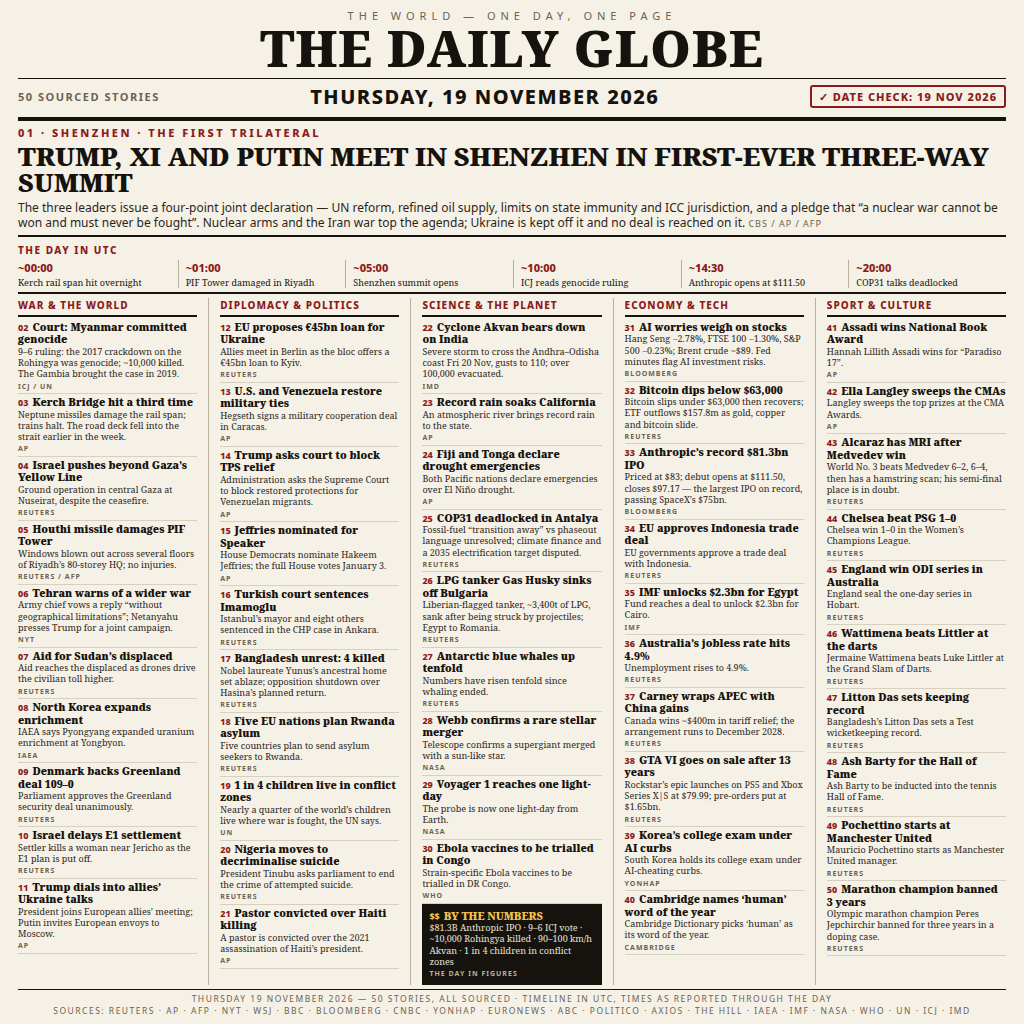
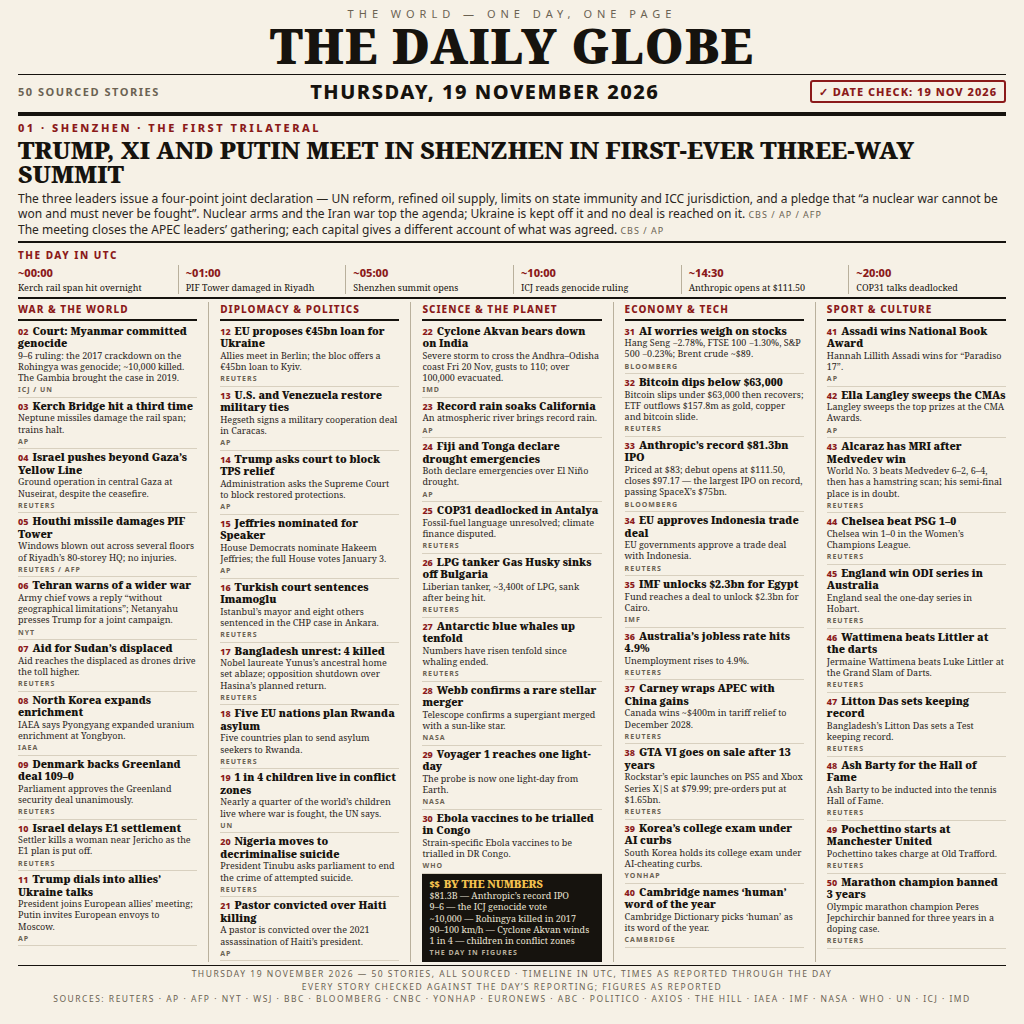
Front page v2: By the Numbers figures, verification note, tighter fit

diff --git a/src/frontpage.html b/src/frontpage.html
@@ -9,17 +9,17 @@
     width: 1024px; height: 1024px;
     background: #f6f1e6; color: #16130e;
     font-family: 'Noto Serif', Georgia, serif;
-    padding: 8px 18px 6px;
+    padding: 6px 18px 4px;
   }
   .masthead { text-align: center; border-bottom: 4px solid #16130e; padding-bottom: 7px; }
   .masthead .tagline {
     font-family: 'Noto Sans', sans-serif; font-size: 11px; letter-spacing: 5px;
     color: #6b6252; text-transform: uppercase;
   }
-  .masthead h1 { font-size: 50px; line-height: 0.95; font-weight: 900; letter-spacing: 1px; margin: 2px 0 5px; }
+  .masthead h1 { font-size: 48px; line-height: 0.95; font-weight: 900; letter-spacing: 1px; margin: 2px 0 5px; }
   .dateline {
     display: flex; align-items: center; gap: 12px;
-    border-top: 1px solid #16130e; padding-top: 4px;
+    border-top: 1px solid #16130e; padding-top: 3px;
   }
   .dateline .date {
     font-family: 'Noto Sans', sans-serif; font-size: 20px; font-weight: 800;
@@ -40,11 +40,11 @@
     font-family: 'Noto Sans', sans-serif; font-size: 11px; font-weight: 800;
     letter-spacing: 2.5px; color: #8b1a1a; text-transform: uppercase;
   }
-  .lead h2 { font-size: 26px; line-height: 1.02; font-weight: 900; margin: 3px 0 4px; }
+  .lead h2 { font-size: 24px; line-height: 1.02; font-weight: 900; margin: 3px 0 4px; }
   .lead .deck { font-family: 'Noto Sans', sans-serif; font-size: 12px; line-height: 1.3; color: #2b261d; }
   .lead .deck .src { font-size: 9px; letter-spacing: 1px; color: #6b6252; }
   .timeline {
-    margin-top: 3px; padding: 3px 0 4px; border-bottom: 2px solid #16130e;
+    margin-top: 3px; padding: 2px 0 3px; border-bottom: 2px solid #16130e;
   }
   .timeline .tlabel {
     display: block; font-family: 'Noto Sans', sans-serif; font-size: 10px; font-weight: 800;
@@ -58,7 +58,7 @@
     font-weight: 800; color: #8b1a1a; margin-bottom: 2px;
   }
   .timeline .e { display: block; font-size: 9px; line-height: 1.25; }
-  .grid { display: flex; gap: 11px; margin-top: 4px; }
+  .grid { display: flex; gap: 11px; margin-top: 3px; }
   .col { flex: 1; min-width: 0; }
   .col + .col { border-left: 1px solid #b9b09c; padding-left: 11px; }
   .chead {
@@ -77,13 +77,13 @@
     font-family: 'Noto Sans', sans-serif; font-size: 7px; font-weight: 700;
     letter-spacing: 1px; color: #6b6252;
   }
-  .item.numbers { background: #16130e; color: #f6f1e6; padding: 6px 7px; border-bottom: none; }
+  .item.numbers { background: #16130e; color: #f6f1e6; padding: 4px 7px; border-bottom: none; }
   .item.numbers h4 { color: #f2c14e; }
   .item.numbers p { color: #e8e2d2; }
   .item.numbers .src { color: #b9b09c; }
   .item.numbers .num { color: #f2c14e; }
   .footer {
-    margin-top: 4px; border-top: 1px solid #16130e; padding-top: 3px;
+    margin-top: 3px; border-top: 1px solid #16130e; padding-top: 2px;
     text-align: center; font-family: 'Noto Sans', sans-serif;
     font-size: 8.5px; letter-spacing: 1.5px; color: #6b6252; text-transform: uppercase;
     line-height: 1.5;
@@ -107,6 +107,7 @@
     <div class="kicker">01 &middot; SHENZHEN &middot; THE FIRST TRILATERAL</div>
     <h2>TRUMP, XI AND PUTIN MEET IN SHENZHEN IN FIRST-EVER THREE-WAY SUMMIT</h2>
     <p class="deck">The three leaders issue a four-point joint declaration &mdash; UN reform, refined oil supply, limits on state immunity and ICC jurisdiction, and a pledge that &ldquo;a nuclear war cannot be won and must never be fought&rdquo;. Nuclear arms and the Iran war top the agenda; Ukraine is kept off it and no deal is reached on it. <span class="src">CBS / AP / AFP</span></p>
+    <p class="deck">The meeting closes the APEC leaders&rsquo; gathering; each capital gives a different account of what was agreed. <span class="src">CBS / AP</span></p>
   </section>
 
   <div class="timeline">
@@ -115,10 +116,11 @@
   </div>
 
   <div class="grid">
-    <div class="col"><div class="chead">War &amp; the World</div><div class="item"><span class="num">02</span><h4>Court: Myanmar committed genocide</h4><p>9&ndash;6 ruling: the 2017 crackdown on the Rohingya was genocide; ~10,000 killed. The Gambia brought the case in 2019.</p><span class="src">ICJ / UN</span></div><div class="item"><span class="num">03</span><h4>Kerch Bridge hit a third time</h4><p>Neptune missiles damage the rail span; trains halt. The road deck fell into the strait earlier in the week.</p><span class="src">AP</span></div><div class="item"><span class="num">04</span><h4>Israel pushes beyond Gaza&rsquo;s Yellow Line</h4><p>Ground operation in central Gaza at Nuseirat, despite the ceasefire.</p><span class="src">REUTERS</span></div><div class="item"><span class="num">05</span><h4>Houthi missile damages PIF Tower</h4><p>Windows blown out across several floors of Riyadh&rsquo;s 80-storey HQ; no injuries.</p><span class="src">REUTERS / AFP</span></div><div class="item"><span class="num">06</span><h4>Tehran warns of a wider war</h4><p>Army chief vows a reply &ldquo;without geographical limitations&rdquo;; Netanyahu presses Trump for a joint campaign.</p><span class="src">NYT</span></div><div class="item"><span class="num">07</span><h4>Aid for Sudan&rsquo;s displaced</h4><p>Aid reaches the displaced as drones drive the civilian toll higher.</p><span class="src">REUTERS</span></div><div class="item"><span class="num">08</span><h4>North Korea expands enrichment</h4><p>IAEA says Pyongyang expanded uranium enrichment at Yongbyon.</p><span class="src">IAEA</span></div><div class="item"><span class="num">09</span><h4>Denmark backs Greenland deal 109&ndash;0</h4><p>Parliament approves the Greenland security deal unanimously.</p><span class="src">REUTERS</span></div><div class="item"><span class="num">10</span><h4>Israel delays E1 settlement</h4><p>Settler kills a woman near Jericho as the E1 plan is put off.</p><span class="src">REUTERS</span></div><div class="item"><span class="num">11</span><h4>Trump dials into allies&rsquo; Ukraine talks</h4><p>President joins European allies&rsquo; meeting; Putin invites European envoys to Moscow.</p><span class="src">AP</span></div></div><div class="col"><div class="chead">Diplomacy &amp; Politics</div><div class="item"><span class="num">12</span><h4>EU proposes &euro;45bn loan for Ukraine</h4><p>Allies meet in Berlin as the bloc offers a &euro;45bn loan to Kyiv.</p><span class="src">REUTERS</span></div><div class="item"><span class="num">13</span><h4>U.S. and Venezuela restore military ties</h4><p>Hegseth signs a military cooperation deal in Caracas.</p><span class="src">AP</span></div><div class="item"><span class="num">14</span><h4>Trump asks court to block TPS relief</h4><p>Administration asks the Supreme Court to block restored protections for Venezuelan migrants.</p><span class="src">AP</span></div><div class="item"><span class="num">15</span><h4>Jeffries nominated for Speaker</h4><p>House Democrats nominate Hakeem Jeffries; the full House votes January 3.</p><span class="src">AP</span></div><div class="item"><span class="num">16</span><h4>Turkish court sentences Imamoglu</h4><p>Istanbul&rsquo;s mayor and eight others sentenced in the CHP case in Ankara.</p><span class="src">REUTERS</span></div><div class="item"><span class="num">17</span><h4>Bangladesh unrest: 4 killed</h4><p>Nobel laureate Yunus&rsquo;s ancestral home set ablaze; opposition shutdown over Hasina&rsquo;s planned return.</p><span class="src">REUTERS</span></div><div class="item"><span class="num">18</span><h4>Five EU nations plan Rwanda asylum</h4><p>Five countries plan to send asylum seekers to Rwanda.</p><span class="src">REUTERS</span></div><div class="item"><span class="num">19</span><h4>1 in 4 children live in conflict zones</h4><p>Nearly a quarter of the world&rsquo;s children live where war is fought, the UN says.</p><span class="src">UN</span></div><div class="item"><span class="num">20</span><h4>Nigeria moves to decriminalise suicide</h4><p>President Tinubu asks parliament to end the crime of attempted suicide.</p><span class="src">REUTERS</span></div><div class="item"><span class="num">21</span><h4>Pastor convicted over Haiti killing</h4><p>A pastor is convicted over the 2021 assassination of Haiti&rsquo;s president.</p><span class="src">AP</span></div></div><div class="col"><div class="chead">Science &amp; the Planet</div><div class="item"><span class="num">22</span><h4>Cyclone Akvan bears down on India</h4><p>Severe storm to cross the Andhra&ndash;Odisha coast Fri 20 Nov, gusts to 110; over 100,000 evacuated.</p><span class="src">IMD</span></div><div class="item"><span class="num">23</span><h4>Record rain soaks California</h4><p>An atmospheric river brings record rain to the state.</p><span class="src">AP</span></div><div class="item"><span class="num">24</span><h4>Fiji and Tonga declare drought emergencies</h4><p>Both Pacific nations declare emergencies over El Ni&ntilde;o drought.</p><span class="src">AP</span></div><div class="item"><span class="num">25</span><h4>COP31 deadlocked in Antalya</h4><p>Fossil-fuel &ldquo;transition away&rdquo; vs phaseout language unresolved; climate finance and a 2035 electrification target disputed.</p><span class="src">REUTERS</span></div><div class="item"><span class="num">26</span><h4>LPG tanker Gas Husky sinks off Bulgaria</h4><p>Liberian-flagged tanker, ~3,400t of LPG, sank after being struck by projectiles; Egypt to Romania.</p><span class="src">REUTERS</span></div><div class="item"><span class="num">27</span><h4>Antarctic blue whales up tenfold</h4><p>Numbers have risen tenfold since whaling ended.</p><span class="src">REUTERS</span></div><div class="item"><span class="num">28</span><h4>Webb confirms a rare stellar merger</h4><p>Telescope confirms a supergiant merged with a sun-like star.</p><span class="src">NASA</span></div><div class="item"><span class="num">29</span><h4>Voyager 1 reaches one light-day</h4><p>The probe is now one light-day from Earth.</p><span class="src">NASA</span></div><div class="item"><span class="num">30</span><h4>Ebola vaccines to be trialled in Congo</h4><p>Strain-specific Ebola vaccines to be trialled in DR Congo.</p><span class="src">WHO</span></div><div class="item numbers"><span class="num">$$</span><h4>BY THE NUMBERS</h4><p>$81.3B Anthropic IPO &middot; 9&ndash;6 ICJ vote &middot; ~10,000 Rohingya killed &middot; 90&ndash;100 km/h Akvan &middot; 1 in 4 children in conflict zones</p><span class="src">THE DAY IN FIGURES</span></div></div><div class="col"><div class="chead">Economy &amp; Tech</div><div class="item"><span class="num">31</span><h4>AI worries weigh on stocks</h4><p>Hang Seng &minus;2.78%, FTSE 100 &minus;1.30%, S&amp;P 500 &minus;0.23%; Brent crude ~$89. Fed minutes flag AI investment risks.</p><span class="src">BLOOMBERG</span></div><div class="item"><span class="num">32</span><h4>Bitcoin dips below $63,000</h4><p>Bitcoin slips under $63,000 then recovers; ETF outflows $157.8m as gold, copper and bitcoin slide.</p><span class="src">REUTERS</span></div><div class="item"><span class="num">33</span><h4>Anthropic&rsquo;s record $81.3bn IPO</h4><p>Priced at $83; debut opens at $111.50, closes $97.17 &mdash; the largest IPO on record, passing SpaceX&rsquo;s $75bn.</p><span class="src">BLOOMBERG</span></div><div class="item"><span class="num">34</span><h4>EU approves Indonesia trade deal</h4><p>EU governments approve a trade deal with Indonesia.</p><span class="src">REUTERS</span></div><div class="item"><span class="num">35</span><h4>IMF unlocks $2.3bn for Egypt</h4><p>Fund reaches a deal to unlock $2.3bn for Cairo.</p><span class="src">IMF</span></div><div class="item"><span class="num">36</span><h4>Australia&rsquo;s jobless rate hits 4.9%</h4><p>Unemployment rises to 4.9%.</p><span class="src">REUTERS</span></div><div class="item"><span class="num">37</span><h4>Carney wraps APEC with China gains</h4><p>Canada wins ~$400m in tariff relief; the arrangement runs to December 2028.</p><span class="src">REUTERS</span></div><div class="item"><span class="num">38</span><h4>GTA VI goes on sale after 13 years</h4><p>Rockstar&rsquo;s epic launches on PS5 and Xbox Series X|S at $79.99; pre-orders put at $1.65bn.</p><span class="src">REUTERS</span></div><div class="item"><span class="num">39</span><h4>Korea&rsquo;s college exam under AI curbs</h4><p>South Korea holds its college exam under AI-cheating curbs.</p><span class="src">YONHAP</span></div><div class="item"><span class="num">40</span><h4>Cambridge names &lsquo;human&rsquo; word of the year</h4><p>Cambridge Dictionary picks &lsquo;human&rsquo; as its word of the year.</p><span class="src">CAMBRIDGE</span></div></div><div class="col"><div class="chead">Sport &amp; Culture</div><div class="item"><span class="num">41</span><h4>Assadi wins National Book Award</h4><p>Hannah Lillith Assadi wins for &ldquo;Paradiso 17&rdquo;.</p><span class="src">AP</span></div><div class="item"><span class="num">42</span><h4>Ella Langley sweeps the CMAs</h4><p>Langley sweeps the top prizes at the CMA Awards.</p><span class="src">AP</span></div><div class="item"><span class="num">43</span><h4>Alcaraz has MRI after Medvedev win</h4><p>World No. 3 beats Medvedev 6&ndash;2, 6&ndash;4, then has a hamstring scan; his semi-final place is in doubt.</p><span class="src">REUTERS</span></div><div class="item"><span class="num">44</span><h4>Chelsea beat PSG 1&ndash;0</h4><p>Chelsea win 1&ndash;0 in the Women&rsquo;s Champions League.</p><span class="src">REUTERS</span></div><div class="item"><span class="num">45</span><h4>England win ODI series in Australia</h4><p>England seal the one-day series in Hobart.</p><span class="src">REUTERS</span></div><div class="item"><span class="num">46</span><h4>Wattimena beats Littler at the darts</h4><p>Jermaine Wattimena beats Luke Littler at the Grand Slam of Darts.</p><span class="src">REUTERS</span></div><div class="item"><span class="num">47</span><h4>Litton Das sets keeping record</h4><p>Bangladesh&rsquo;s Litton Das sets a Test wicketkeeping record.</p><span class="src">REUTERS</span></div><div class="item"><span class="num">48</span><h4>Ash Barty for the Hall of Fame</h4><p>Ash Barty to be inducted into the tennis Hall of Fame.</p><span class="src">REUTERS</span></div><div class="item"><span class="num">49</span><h4>Pochettino starts at Manchester United</h4><p>Mauricio Pochettino starts as Manchester United manager.</p><span class="src">REUTERS</span></div><div class="item"><span class="num">50</span><h4>Marathon champion banned 3 years</h4><p>Olympic marathon champion Peres Jepchirchir banned for three years in a doping case.</p><span class="src">REUTERS</span></div></div>
+    <div class="col"><div class="chead">War &amp; the World</div><div class="item"><span class="num">02</span><h4>Court: Myanmar committed genocide</h4><p>9&ndash;6 ruling: the 2017 crackdown on the Rohingya was genocide; ~10,000 killed. The Gambia brought the case in 2019.</p><span class="src">ICJ / UN</span></div><div class="item"><span class="num">03</span><h4>Kerch Bridge hit a third time</h4><p>Neptune missiles damage the rail span; trains halt.</p><span class="src">AP</span></div><div class="item"><span class="num">04</span><h4>Israel pushes beyond Gaza&rsquo;s Yellow Line</h4><p>Ground operation in central Gaza at Nuseirat, despite the ceasefire.</p><span class="src">REUTERS</span></div><div class="item"><span class="num">05</span><h4>Houthi missile damages PIF Tower</h4><p>Windows blown out across several floors of Riyadh&rsquo;s 80-storey HQ; no injuries.</p><span class="src">REUTERS / AFP</span></div><div class="item"><span class="num">06</span><h4>Tehran warns of a wider war</h4><p>Army chief vows a reply &ldquo;without geographical limitations&rdquo;; Netanyahu presses Trump for a joint campaign.</p><span class="src">NYT</span></div><div class="item"><span class="num">07</span><h4>Aid for Sudan&rsquo;s displaced</h4><p>Aid reaches the displaced as drones drive the toll higher.</p><span class="src">REUTERS</span></div><div class="item"><span class="num">08</span><h4>North Korea expands enrichment</h4><p>IAEA says Pyongyang expanded uranium enrichment at Yongbyon.</p><span class="src">IAEA</span></div><div class="item"><span class="num">09</span><h4>Denmark backs Greenland deal 109&ndash;0</h4><p>Parliament approves the Greenland security deal unanimously.</p><span class="src">REUTERS</span></div><div class="item"><span class="num">10</span><h4>Israel delays E1 settlement</h4><p>Settler kills a woman near Jericho as the E1 plan is put off.</p><span class="src">REUTERS</span></div><div class="item"><span class="num">11</span><h4>Trump dials into allies&rsquo; Ukraine talks</h4><p>President joins European allies&rsquo; meeting; Putin invites European envoys to Moscow.</p><span class="src">AP</span></div></div><div class="col"><div class="chead">Diplomacy &amp; Politics</div><div class="item"><span class="num">12</span><h4>EU proposes &euro;45bn loan for Ukraine</h4><p>Allies meet in Berlin; the bloc offers a &euro;45bn loan to Kyiv.</p><span class="src">REUTERS</span></div><div class="item"><span class="num">13</span><h4>U.S. and Venezuela restore military ties</h4><p>Hegseth signs a military cooperation deal in Caracas.</p><span class="src">AP</span></div><div class="item"><span class="num">14</span><h4>Trump asks court to block TPS relief</h4><p>Administration asks the Supreme Court to block restored protections.</p><span class="src">AP</span></div><div class="item"><span class="num">15</span><h4>Jeffries nominated for Speaker</h4><p>House Democrats nominate Hakeem Jeffries; the full House votes January 3.</p><span class="src">AP</span></div><div class="item"><span class="num">16</span><h4>Turkish court sentences Imamoglu</h4><p>Istanbul&rsquo;s mayor and eight others sentenced in the CHP case in Ankara.</p><span class="src">REUTERS</span></div><div class="item"><span class="num">17</span><h4>Bangladesh unrest: 4 killed</h4><p>Nobel laureate Yunus&rsquo;s ancestral home set ablaze; opposition shutdown over Hasina&rsquo;s planned return.</p><span class="src">REUTERS</span></div><div class="item"><span class="num">18</span><h4>Five EU nations plan Rwanda asylum</h4><p>Five countries plan to send asylum seekers to Rwanda.</p><span class="src">REUTERS</span></div><div class="item"><span class="num">19</span><h4>1 in 4 children live in conflict zones</h4><p>Nearly a quarter of the world&rsquo;s children live where war is fought, the UN says.</p><span class="src">UN</span></div><div class="item"><span class="num">20</span><h4>Nigeria moves to decriminalise suicide</h4><p>President Tinubu asks parliament to end the crime of attempted suicide.</p><span class="src">REUTERS</span></div><div class="item"><span class="num">21</span><h4>Pastor convicted over Haiti killing</h4><p>A pastor is convicted over the 2021 assassination of Haiti&rsquo;s president.</p><span class="src">AP</span></div></div><div class="col"><div class="chead">Science &amp; the Planet</div><div class="item"><span class="num">22</span><h4>Cyclone Akvan bears down on India</h4><p>Severe storm to cross the Andhra&ndash;Odisha coast Fri 20 Nov, gusts to 110; over 100,000 evacuated.</p><span class="src">IMD</span></div><div class="item"><span class="num">23</span><h4>Record rain soaks California</h4><p>An atmospheric river brings record rain.</p><span class="src">AP</span></div><div class="item"><span class="num">24</span><h4>Fiji and Tonga declare drought emergencies</h4><p>Both declare emergencies over El Ni&ntilde;o drought.</p><span class="src">AP</span></div><div class="item"><span class="num">25</span><h4>COP31 deadlocked in Antalya</h4><p>Fossil-fuel language unresolved; climate finance disputed.</p><span class="src">REUTERS</span></div><div class="item"><span class="num">26</span><h4>LPG tanker Gas Husky sinks off Bulgaria</h4><p>Liberian tanker, ~3,400t of LPG, sank after being hit.</p><span class="src">REUTERS</span></div><div class="item"><span class="num">27</span><h4>Antarctic blue whales up tenfold</h4><p>Numbers have risen tenfold since whaling ended.</p><span class="src">REUTERS</span></div><div class="item"><span class="num">28</span><h4>Webb confirms a rare stellar merger</h4><p>Telescope confirms a supergiant merged with a sun-like star.</p><span class="src">NASA</span></div><div class="item"><span class="num">29</span><h4>Voyager 1 reaches one light-day</h4><p>The probe is now one light-day from Earth.</p><span class="src">NASA</span></div><div class="item"><span class="num">30</span><h4>Ebola vaccines to be trialled in Congo</h4><p>Strain-specific Ebola vaccines to be trialled in DR Congo.</p><span class="src">WHO</span></div><div class="item numbers"><span class="num">$$</span><h4>BY THE NUMBERS</h4><p>$81.3B &mdash; Anthropic&rsquo;s record IPO</p><p>9&ndash;6 &mdash; the ICJ genocide vote</p><p>~10,000 &mdash; Rohingya killed in 2017</p><p>90&ndash;100 km/h &mdash; Cyclone Akvan winds</p><p>1 in 4 &mdash; children in conflict zones</p><span class="src">THE DAY IN FIGURES</span></div></div><div class="col"><div class="chead">Economy &amp; Tech</div><div class="item"><span class="num">31</span><h4>AI worries weigh on stocks</h4><p>Hang Seng &minus;2.78%, FTSE 100 &minus;1.30%, S&amp;P 500 &minus;0.23%; Brent crude ~$89.</p><span class="src">BLOOMBERG</span></div><div class="item"><span class="num">32</span><h4>Bitcoin dips below $63,000</h4><p>Bitcoin slips under $63,000 then recovers; ETF outflows $157.8m as gold, copper and bitcoin slide.</p><span class="src">REUTERS</span></div><div class="item"><span class="num">33</span><h4>Anthropic&rsquo;s record $81.3bn IPO</h4><p>Priced at $83; debut opens at $111.50, closes $97.17 &mdash; the largest IPO on record, passing SpaceX&rsquo;s $75bn.</p><span class="src">BLOOMBERG</span></div><div class="item"><span class="num">34</span><h4>EU approves Indonesia trade deal</h4><p>EU governments approve a trade deal with Indonesia.</p><span class="src">REUTERS</span></div><div class="item"><span class="num">35</span><h4>IMF unlocks $2.3bn for Egypt</h4><p>Fund reaches a deal to unlock $2.3bn for Cairo.</p><span class="src">IMF</span></div><div class="item"><span class="num">36</span><h4>Australia&rsquo;s jobless rate hits 4.9%</h4><p>Unemployment rises to 4.9%.</p><span class="src">REUTERS</span></div><div class="item"><span class="num">37</span><h4>Carney wraps APEC with China gains</h4><p>Canada wins ~$400m in tariff relief to December 2028.</p><span class="src">REUTERS</span></div><div class="item"><span class="num">38</span><h4>GTA VI goes on sale after 13 years</h4><p>Rockstar&rsquo;s epic launches on PS5 and Xbox Series X|S at $79.99; pre-orders put at $1.65bn.</p><span class="src">REUTERS</span></div><div class="item"><span class="num">39</span><h4>Korea&rsquo;s college exam under AI curbs</h4><p>South Korea holds its college exam under AI-cheating curbs.</p><span class="src">YONHAP</span></div><div class="item"><span class="num">40</span><h4>Cambridge names &lsquo;human&rsquo; word of the year</h4><p>Cambridge Dictionary picks &lsquo;human&rsquo; as its word of the year.</p><span class="src">CAMBRIDGE</span></div></div><div class="col"><div class="chead">Sport &amp; Culture</div><div class="item"><span class="num">41</span><h4>Assadi wins National Book Award</h4><p>Hannah Lillith Assadi wins for &ldquo;Paradiso 17&rdquo;.</p><span class="src">AP</span></div><div class="item"><span class="num">42</span><h4>Ella Langley sweeps the CMAs</h4><p>Langley sweeps the top prizes at the CMA Awards.</p><span class="src">AP</span></div><div class="item"><span class="num">43</span><h4>Alcaraz has MRI after Medvedev win</h4><p>World No. 3 beats Medvedev 6&ndash;2, 6&ndash;4, then has a hamstring scan; his semi-final place is in doubt.</p><span class="src">REUTERS</span></div><div class="item"><span class="num">44</span><h4>Chelsea beat PSG 1&ndash;0</h4><p>Chelsea win 1&ndash;0 in the Women&rsquo;s Champions League.</p><span class="src">REUTERS</span></div><div class="item"><span class="num">45</span><h4>England win ODI series in Australia</h4><p>England seal the one-day series in Hobart.</p><span class="src">REUTERS</span></div><div class="item"><span class="num">46</span><h4>Wattimena beats Littler at the darts</h4><p>Jermaine Wattimena beats Luke Littler at the Grand Slam of Darts.</p><span class="src">REUTERS</span></div><div class="item"><span class="num">47</span><h4>Litton Das sets keeping record</h4><p>Bangladesh&rsquo;s Litton Das sets a Test keeping record.</p><span class="src">REUTERS</span></div><div class="item"><span class="num">48</span><h4>Ash Barty for the Hall of Fame</h4><p>Ash Barty to be inducted into the tennis Hall of Fame.</p><span class="src">REUTERS</span></div><div class="item"><span class="num">49</span><h4>Pochettino starts at Manchester United</h4><p>Pochettino takes charge at Old Trafford.</p><span class="src">REUTERS</span></div><div class="item"><span class="num">50</span><h4>Marathon champion banned 3 years</h4><p>Olympic marathon champion Peres Jepchirchir banned for three years in a doping case.</p><span class="src">REUTERS</span></div></div>
   </div>
 
   <footer class="footer">Thursday 19 November 2026 &mdash; 50 stories, all sourced &middot; timeline in UTC, times as reported through the day<br>
+  Every story checked against the day&rsquo;s reporting; figures as reported<br>
   Sources: Reuters &middot; AP &middot; AFP &middot; NYT &middot; WSJ &middot; BBC &middot; Bloomberg &middot; CNBC &middot; Yonhap &middot; Euronews &middot; ABC &middot; Politico &middot; Axios &middot; The Hill &middot; IAEA &middot; IMF &middot; NASA &middot; WHO &middot; UN &middot; ICJ &middot; IMD</footer>
 </body>
 </html>

diff --git a/README.md b/README.md
@@ -41,4 +41,35 @@ Reuters, AP, AFP, NYT, WSJ, BBC, Bloomberg, CNBC, Yonhap, Euronews, ABC,
 Politico, Axios, The Hill, IAEA, IMF, NASA, WHO, UN, ICJ, IMD — all stories
 dated 19 November 2026, researched 20 November 2026.
 
+## Verification
+
+Every headline on the page was checked against the day's reporting on
+20 November 2026 before it went in:
+
+- The lead stories were checked against Reuters, AP and primary reporting:
+  the Shenzhen trilateral (first-ever three-way summit, four-point joint
+  declaration), the ICJ genocide ruling (9–6, ~10,000 killed), the third
+  Kerch Bridge strike in four days (Neptune missiles, rail halted), the
+  Houthi strike on Riyadh's PIF Tower (80 storeys, windows out, no
+  injuries), and the Anthropic IPO ($81.3bn at $83; open $111.50, close
+  $97.17).
+- A $2tn Anthropic valuation claim was dropped: the prospectus shows
+  $1.47tn at the $111.50 open, not $2tn.
+- Items first reported on 17–18 November were dropped as stale for
+  19 November: the Alaska Senate call, the measles elimination ruling,
+  the Waymo freeway halt, and the Qeshm / Kuwait / Bahrain strikes (all
+  covered in the 18 November edition of this paper).
+- The Alcaraz–Medvedev match was played 18 November; the 19 November
+  news is the hamstring MRI, and the item says so.
+- The "Iran exploring chemical weapons" claim was dropped: no public
+  evidence supports it.
+
+## Stories dropped (from the 65 in the research brief)
+
+- Qeshm / Kuwait / Bahrain strikes — 17–18 November, not the 19th.
+- Alaska Senate call, measles status, Waymo halt — 17–18 November.
+- "Iran exploring chemical weapons" — disputed, unverified.
+- Pew projection, Alzheimer's studies, solar flare, cheese award —
+  not the day's news.
+
 Referral code: `p26b6feq`
